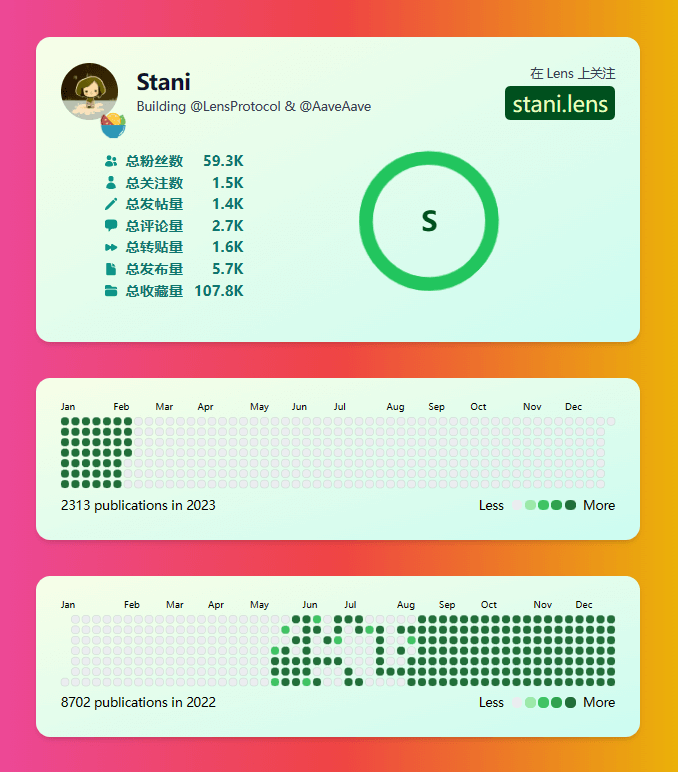
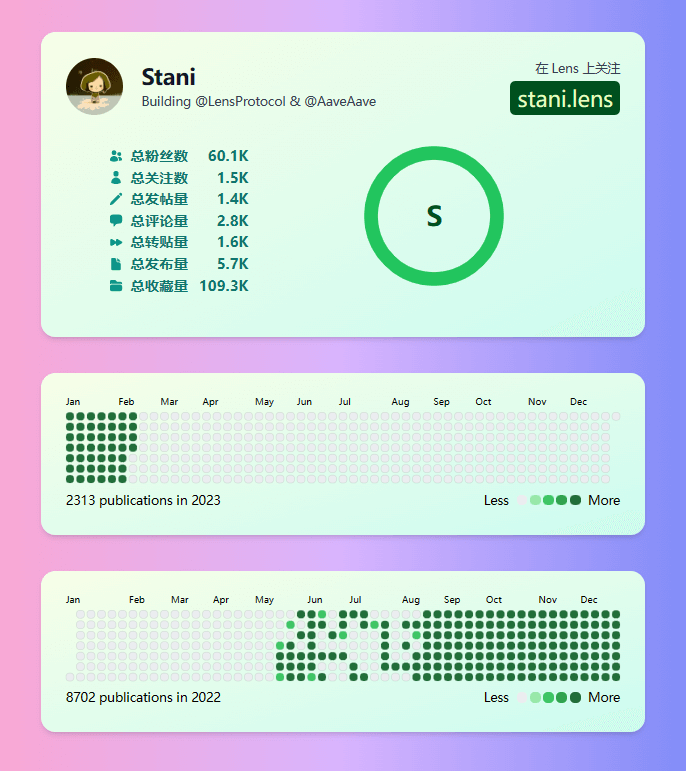
add superComputingLevel

diff --git a/apps/lens-profile/components/ProfileStats.tsx b/apps/lens-profile/components/ProfileStats.tsx
@@ -9,6 +9,7 @@ import {
   UsersIcon,
 } from '@heroicons/react/24/solid'
 import { useProfiles } from '@lenskit/react'
+import { stat } from 'fs'
 import Image from 'next/image'
 import Link from 'next/link'
 import Placeholder from './Placeholder'
@@ -116,7 +117,7 @@ const ProfileStats: React.FC<ProfileStatsProps> = ({ handle, profileId, ownedBy 
               ))}
           </div>
           <div className="mx-auto mt-3">
-            <CircleProgressBar level={publicationsCountToLevel(profile.stats.totalCollects)} />
+            <CircleProgressBar level={superComputingLevel(profile.stats)} />
           </div>
         </div>
       </div>
@@ -219,6 +220,24 @@ function publicationsCountToLevel(count: number) {
     return 'B'
   }
   if (count >= 50) {
+    return 'C'
+  }
+  return 'D'
+}
+
+// 
+function superComputingLevel(stats: { totalFollowers:number,totalFollowing:number,totalPosts:number,totalComments:number,totalMirrors:number,totalPublications:number,totalCollects:number }){
+  const count = (1 + Math.sqrt(stats.totalFollowers)) * (Math.sqrt(stats.totalFollowing + stats.totalPublications) + Math.sqrt(stats.totalCollects/stats.totalPublications) + 1 )
+  if (count >= 4000) {
+    return 'S'
+  }
+  if (count >= 1500) {
+    return 'A'
+  }
+  if (count >= 500) {
+    return 'B'
+  }
+  if (count >= 100) {
     return 'C'
   }
   return 'D'
